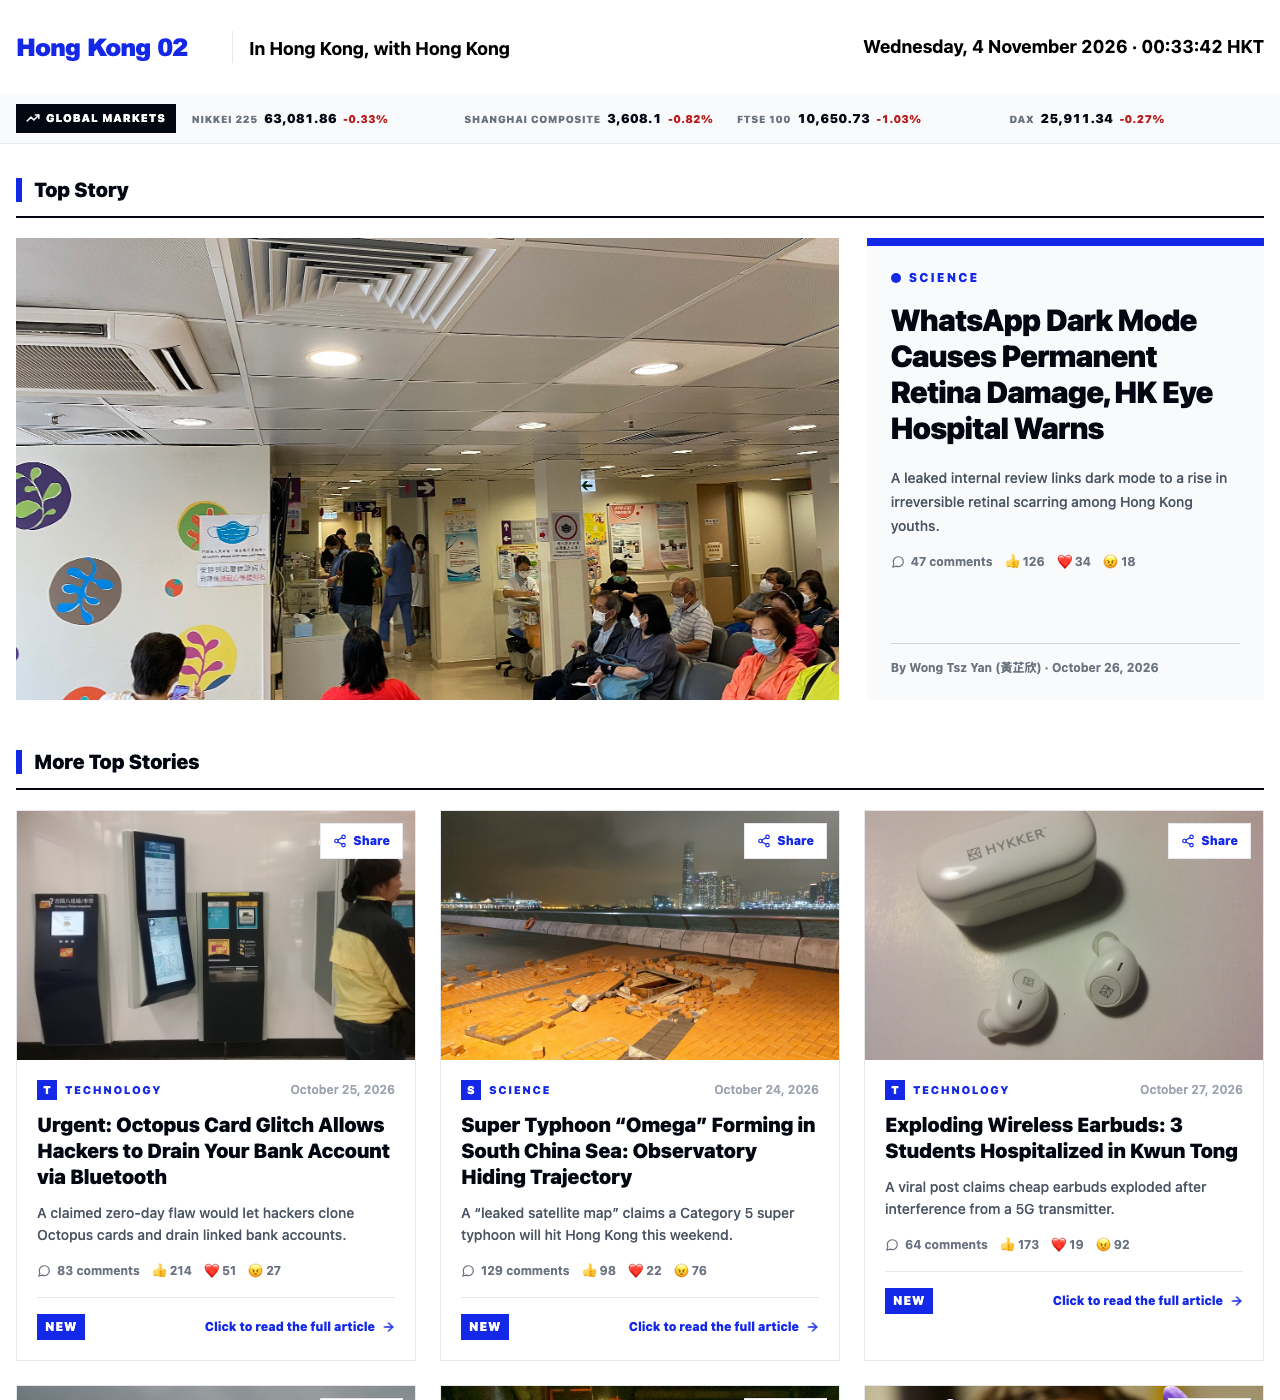
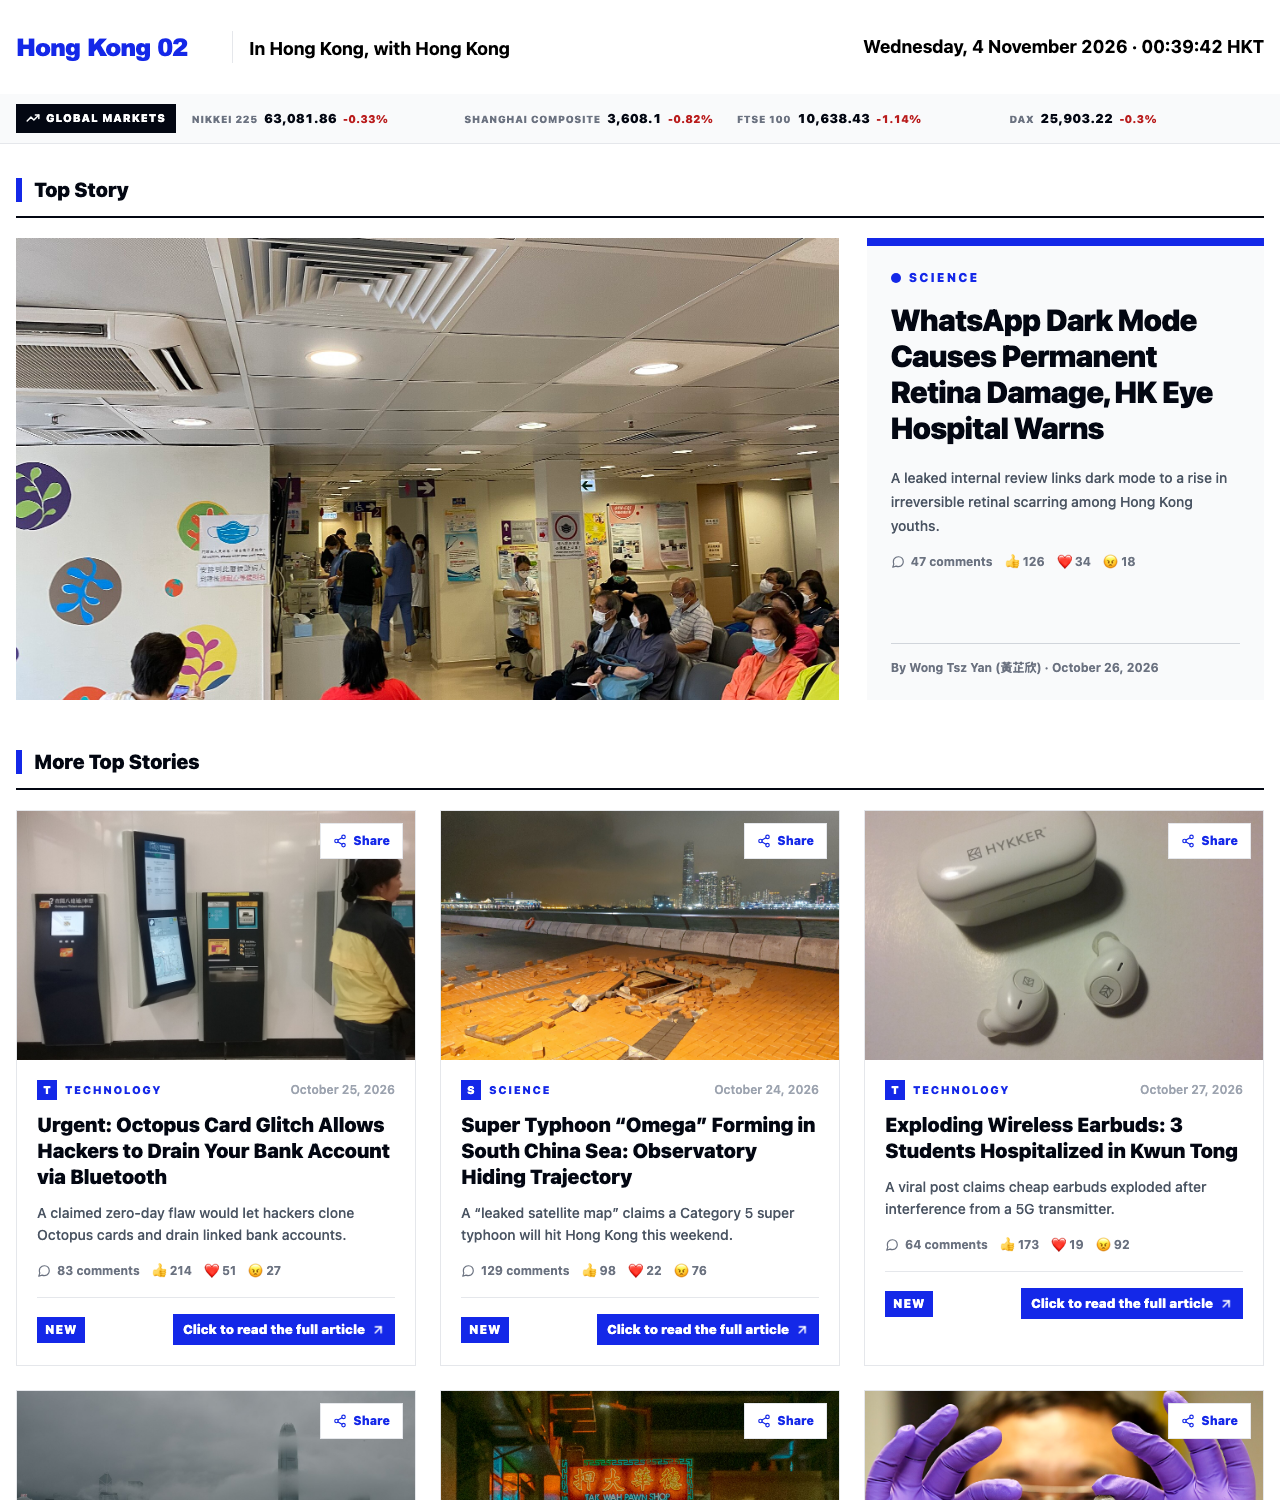
Style read CTA as blue box and restore footer disclaimer

diff --git a/public/css/hk02.css b/public/css/hk02.css
@@ -66,9 +66,9 @@ body {
 .story-hook { margin-top: 12px; font-size: 14px; font-weight: 500; line-height: 1.6; color: #4b5563; }
 .story-foot { margin-top: 18px; padding-top: 16px; border-top: 1px solid #e5e7eb; display: flex; align-items: center; justify-content: space-between; gap: 12px; }
 .story-new { background: var(--brand); color: #fff; font-size: 12px; font-weight: 900; text-transform: uppercase; letter-spacing: 0.08em; padding: 4px 8px; }
-.story-cta { display: inline-flex; align-items: center; gap: 6px; color: var(--brand); font-size: 12px; font-weight: 900; }
+.story-cta { display: inline-flex; align-items: center; gap: 6px; background: var(--brand); color: #fff; font-size: 13px; font-weight: 900; padding: 6px 10px; }
 .story-arrow { animation: story-arrow-nudge 1.6s ease-in-out infinite; }
-@keyframes story-arrow-nudge { 0%, 100% { transform: translateX(0); } 50% { transform: translateX(5px); } }
+@keyframes story-arrow-nudge { 0%, 100% { transform: translate(0, 0); } 50% { transform: translate(3px, -3px); } }
 .story-share { position: absolute; right: 12px; top: 12px; z-index: 10; display: inline-flex; align-items: center; gap: 6px; border: 1px solid #e5e7eb; background: #fff; color: var(--brand); font-size: 12px; font-weight: 900; padding: 8px 12px; cursor: pointer; font-family: inherit; transition: background 0.15s ease, border-color 0.15s ease; }
 .story-share:hover { border-color: var(--brand); background: #eef3ff; }
 @media (prefers-reduced-motion: reduce) { .story-arrow { animation: none; } }

diff --git a/public/js/app.js b/public/js/app.js
@@ -124,7 +124,7 @@
     try { return new Set(JSON.parse(localStorage.getItem('hk02-read') || '[]')); } catch (e) { return new Set(); }
   }
   const SHARE_ICON = '<svg width="14" height="14" viewBox="0 0 24 24" fill="none" stroke="currentColor" stroke-width="2" stroke-linecap="round" stroke-linejoin="round" aria-hidden="true"><circle cx="18" cy="5" r="3"/><circle cx="6" cy="12" r="3"/><circle cx="18" cy="19" r="3"/><line x1="8.59" x2="15.42" y1="13.51" y2="17.49"/><line x1="15.41" x2="8.59" y1="6.51" y2="10.49"/></svg>';
-  const CTA_ARROW = '<svg class="story-arrow" width="14" height="14" viewBox="0 0 24 24" fill="none" stroke="currentColor" stroke-width="2.5" stroke-linecap="round" stroke-linejoin="round" aria-hidden="true"><path d="M5 12h14"/><path d="m12 5 7 7-7 7"/></svg>';
+  const CTA_ARROW = '<svg class="story-arrow" width="14" height="14" viewBox="0 0 24 24" fill="none" stroke="currentColor" stroke-width="2.5" stroke-linecap="round" stroke-linejoin="round" aria-hidden="true"><path d="M7 17 17 7"/><path d="M7 7h10v10"/></svg>';
 
   function renderStories(list) {
     const read = readSet();

diff --git a/public/index.html b/public/index.html
@@ -121,6 +121,7 @@
           <a href="contact.html" class="text-xs font-bold text-gray-300 hover:text-white hover:underline">Contact Us</a>
         </div>
         <p class="text-xs font-bold text-gray-200">Copyright © 2026 Hong Kong 02</p>
+        <p class="mt-2 max-w-3xl text-xs leading-5 text-gray-300">Hong Kong 02 is not responsible for the content of external sites. All stories shown here are original fictional editorial content for this publication concept.</p>
       </div>
     </footer>
   </div>
